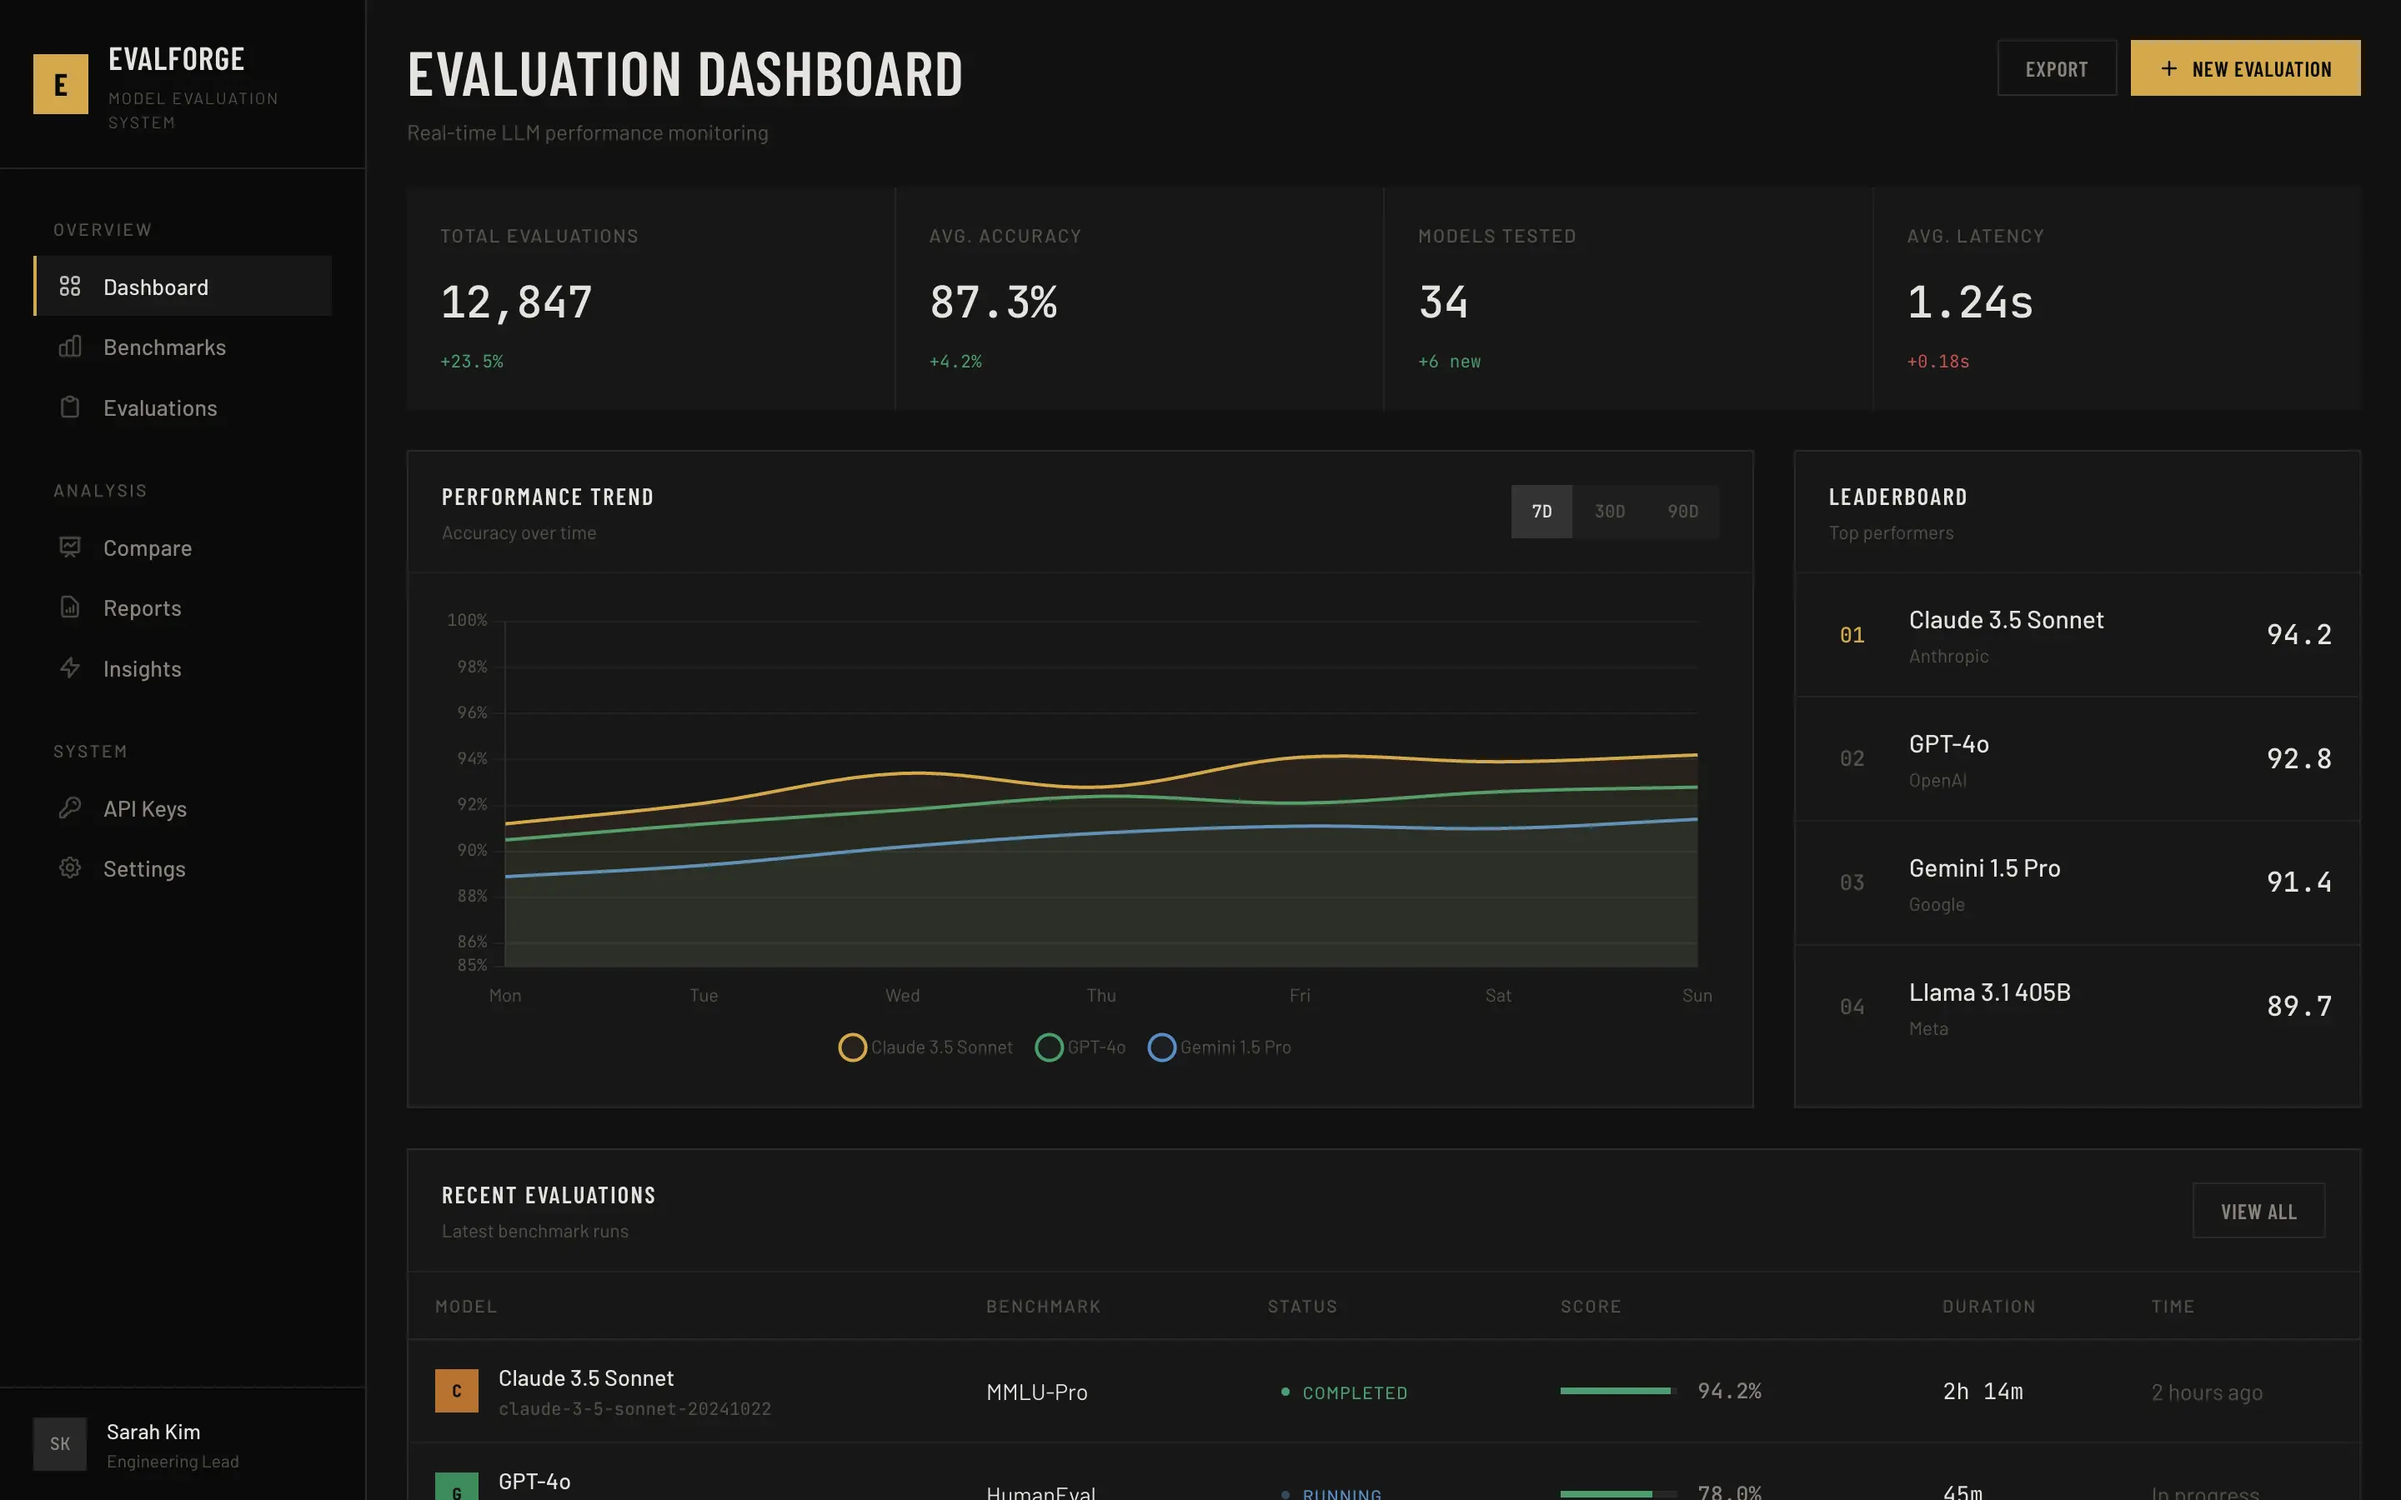
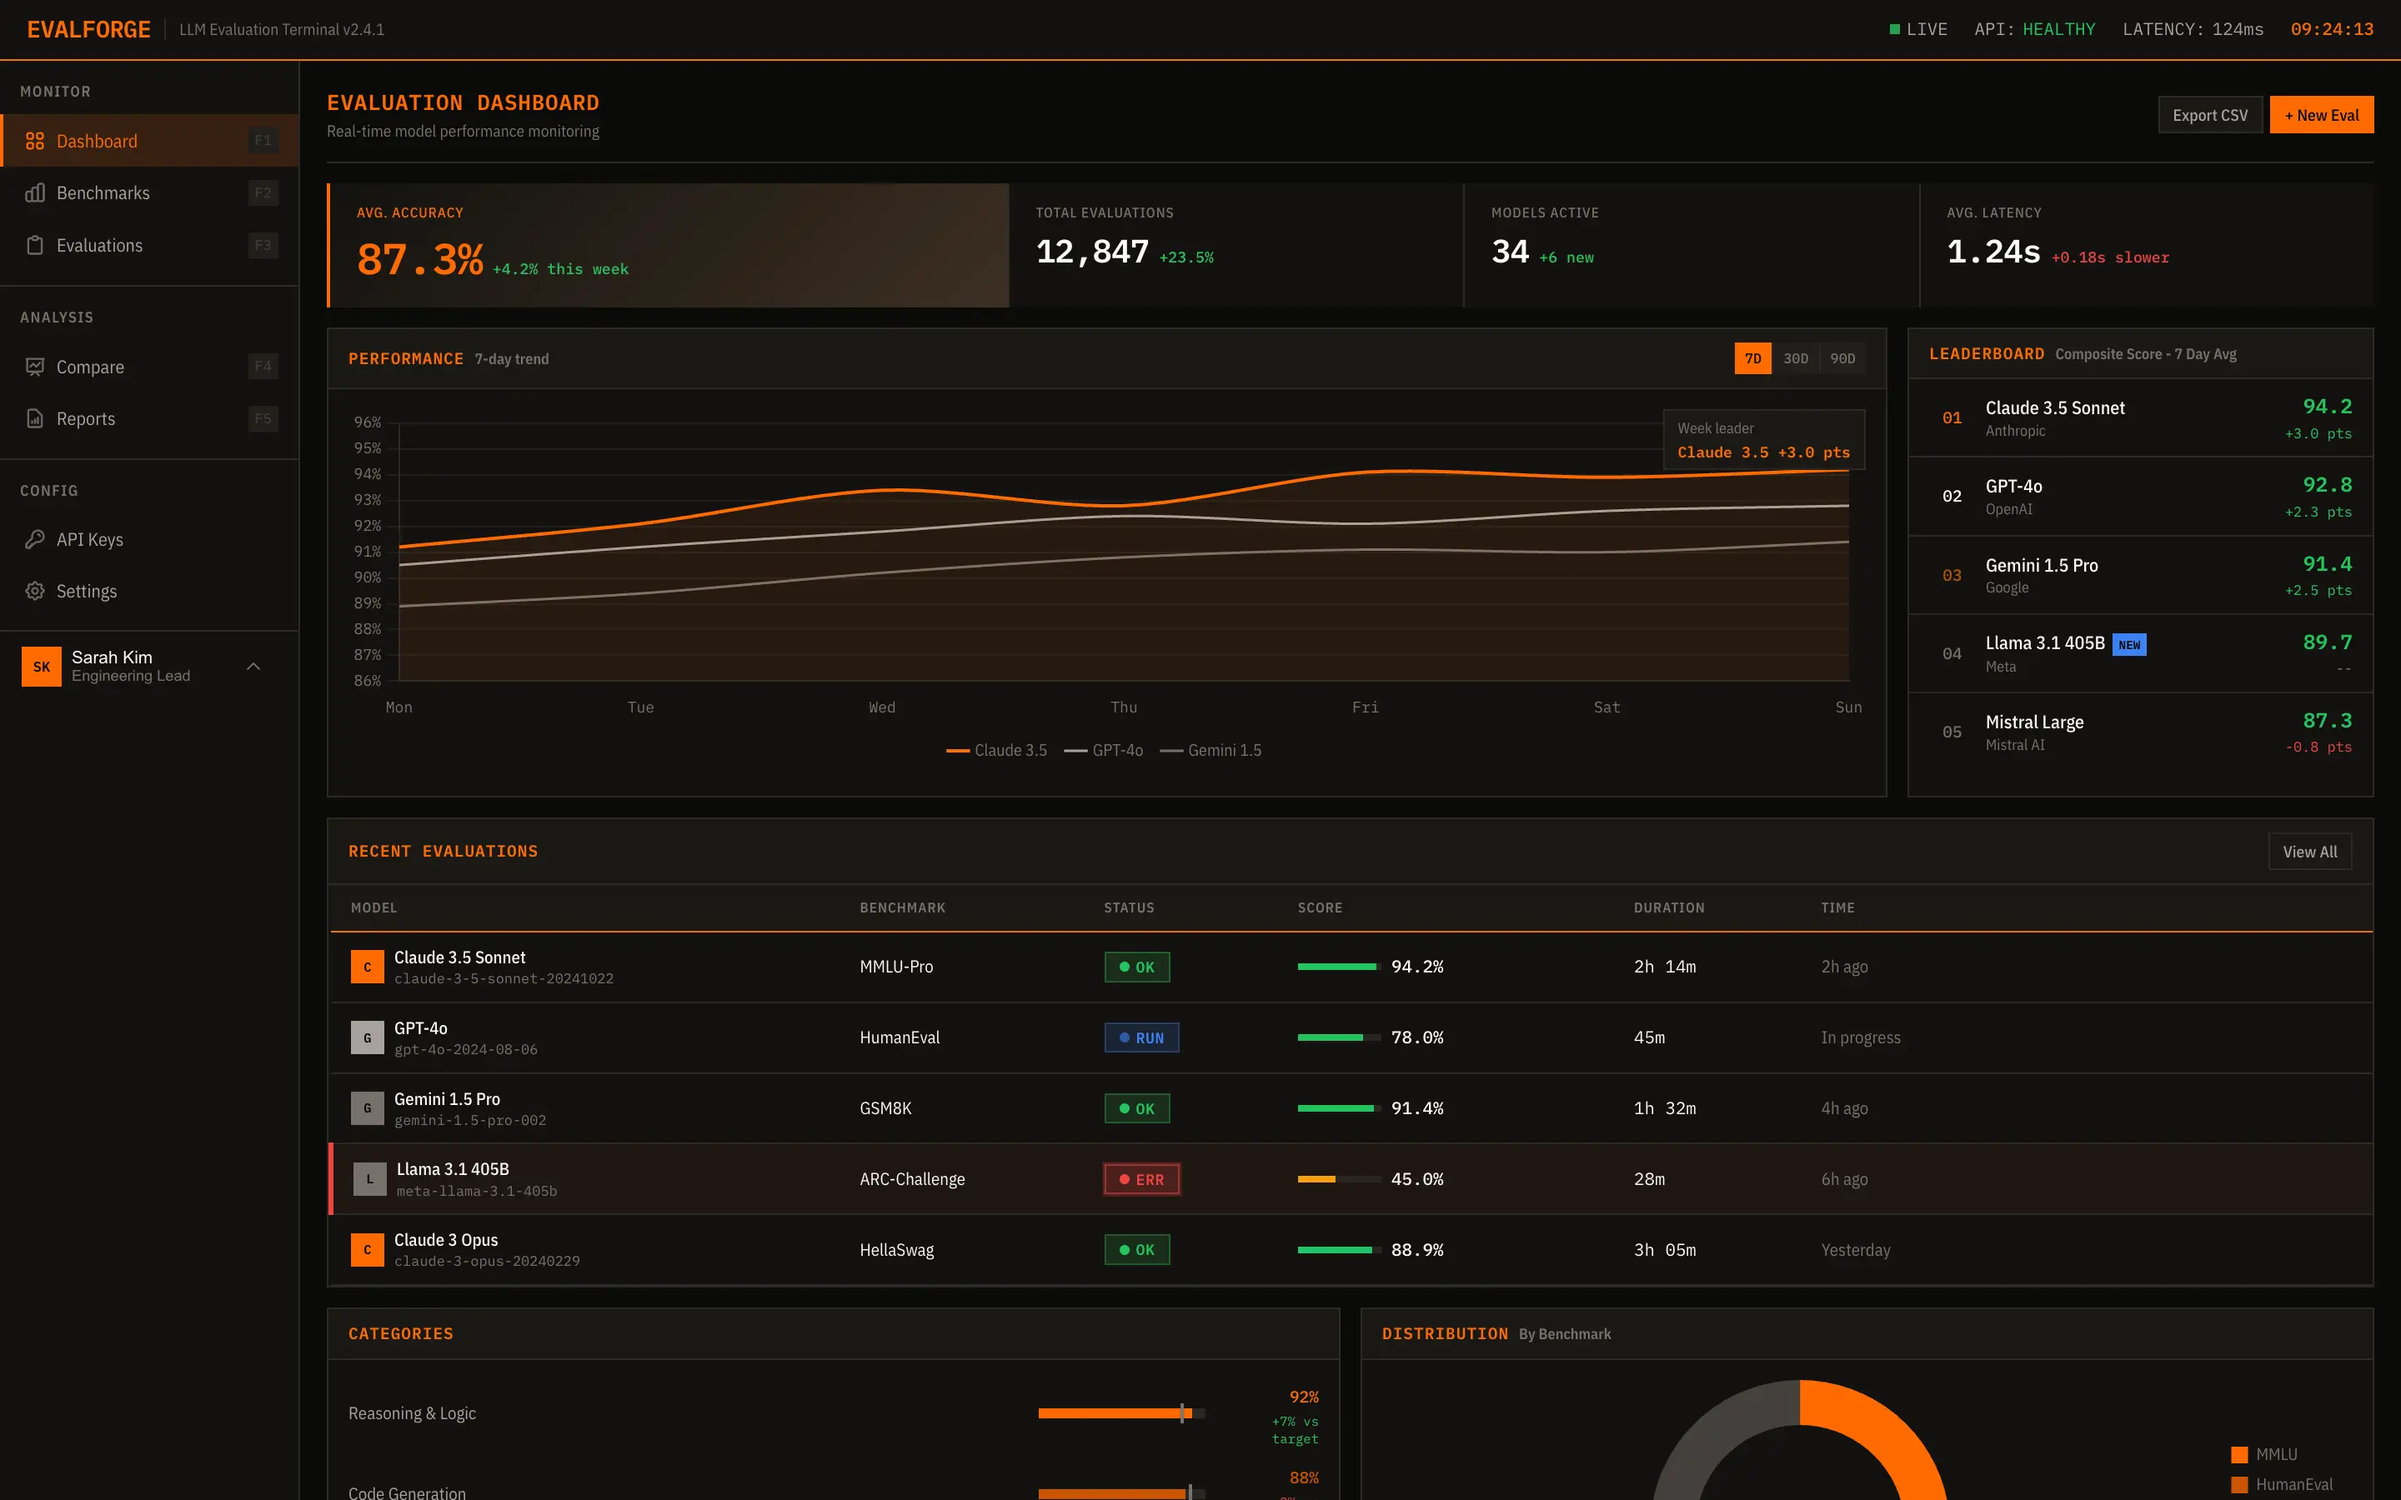
Make AskUserQuestion instruction more imperative for Claude Code
Changed from passive "use the AskUserQuestion tool" to imperative
"STOP and call the AskUserQuestion tool" to ensure Claude actually
asks clarifying questions when context is missing.

diff --git a/scripts/lib/utils.js b/scripts/lib/utils.js
@@ -301,7 +301,7 @@ export const PROVIDER_PLACEHOLDERS = {
   'claude-code': {
     model: 'Claude',
     config_file: 'CLAUDE.md',
-    ask_instruction: 'use the AskUserQuestion tool to clarify what you cannot infer.'
+    ask_instruction: 'STOP and call the AskUserQuestion tool to clarify.'
   },
   'cursor': {
     model: 'the model',

diff --git a/.claude/skills/frontend-design/SKILL.md b/.claude/skills/frontend-design/SKILL.md
@@ -8,7 +8,7 @@ This skill guides creation of distinctive, production-grade frontend interfaces 
 
 ## Design Thinking
 
-Great design requires understanding. First, scan available context—README, existing components, brand guidelines, design tokens—to infer purpose, audience, and constraints. If critical context is missing, use the AskUserQuestion tool to clarify what you cannot infer. Don't guess on fundamentals.
+Great design requires understanding. First, scan available context—README, existing components, brand guidelines, design tokens—to infer purpose, audience, and constraints. If critical context is missing, STOP and call the AskUserQuestion tool to clarify. Don't guess on fundamentals.
 
 Then commit to a BOLD aesthetic direction:
 - **Purpose**: What problem does this interface solve? Who uses it?

diff --git a/dist/claude-code-prefixed/.claude/skills/frontend-design/SKILL.md b/dist/claude-code-prefixed/.claude/skills/frontend-design/SKILL.md
@@ -8,7 +8,7 @@ This skill guides creation of distinctive, production-grade frontend interfaces 
 
 ## Design Thinking
 
-Great design requires understanding. First, scan available context—README, existing components, brand guidelines, design tokens—to infer purpose, audience, and constraints. If critical context is missing, use the AskUserQuestion tool to clarify what you cannot infer. Don't guess on fundamentals.
+Great design requires understanding. First, scan available context—README, existing components, brand guidelines, design tokens—to infer purpose, audience, and constraints. If critical context is missing, STOP and call the AskUserQuestion tool to clarify. Don't guess on fundamentals.
 
 Then commit to a BOLD aesthetic direction:
 - **Purpose**: What problem does this interface solve? Who uses it?

diff --git a/dist/claude-code/.claude/skills/frontend-design/SKILL.md b/dist/claude-code/.claude/skills/frontend-design/SKILL.md
@@ -8,7 +8,7 @@ This skill guides creation of distinctive, production-grade frontend interfaces 
 
 ## Design Thinking
 
-Great design requires understanding. First, scan available context—README, existing components, brand guidelines, design tokens—to infer purpose, audience, and constraints. If critical context is missing, use the AskUserQuestion tool to clarify what you cannot infer. Don't guess on fundamentals.
+Great design requires understanding. First, scan available context—README, existing components, brand guidelines, design tokens—to infer purpose, audience, and constraints. If critical context is missing, STOP and call the AskUserQuestion tool to clarify. Don't guess on fundamentals.
 
 Then commit to a BOLD aesthetic direction:
 - **Purpose**: What problem does this interface solve? Who uses it?

diff --git a/.claude/commands/teach-impeccable.md b/.claude/commands/teach-impeccable.md
@@ -20,7 +20,7 @@ Note what you've learned and what remains unclear.
 
 ## Step 2: Ask UX-Focused Questions
 
-use the AskUserQuestion tool to clarify what you cannot infer. Focus only on what you couldn't infer from the codebase:
+STOP and call the AskUserQuestion tool to clarify. Focus only on what you couldn't infer from the codebase:
 
 ### Users & Purpose
 - Who uses this? What's their context when using it?

diff --git a/dist/claude-code-prefixed/.claude/commands/i-teach-impeccable.md b/dist/claude-code-prefixed/.claude/commands/i-teach-impeccable.md
@@ -20,7 +20,7 @@ Note what you've learned and what remains unclear.
 
 ## Step 2: Ask UX-Focused Questions
 
-use the AskUserQuestion tool to clarify what you cannot infer. Focus only on what you couldn't infer from the codebase:
+STOP and call the AskUserQuestion tool to clarify. Focus only on what you couldn't infer from the codebase:
 
 ### Users & Purpose
 - Who uses this? What's their context when using it?

diff --git a/dist/claude-code/.claude/commands/teach-impeccable.md b/dist/claude-code/.claude/commands/teach-impeccable.md
@@ -20,7 +20,7 @@ Note what you've learned and what remains unclear.
 
 ## Step 2: Ask UX-Focused Questions
 
-use the AskUserQuestion tool to clarify what you cannot infer. Focus only on what you couldn't infer from the codebase:
+STOP and call the AskUserQuestion tool to clarify. Focus only on what you couldn't infer from the codebase:
 
 ### Users & Purpose
 - Who uses this? What's their context when using it?
